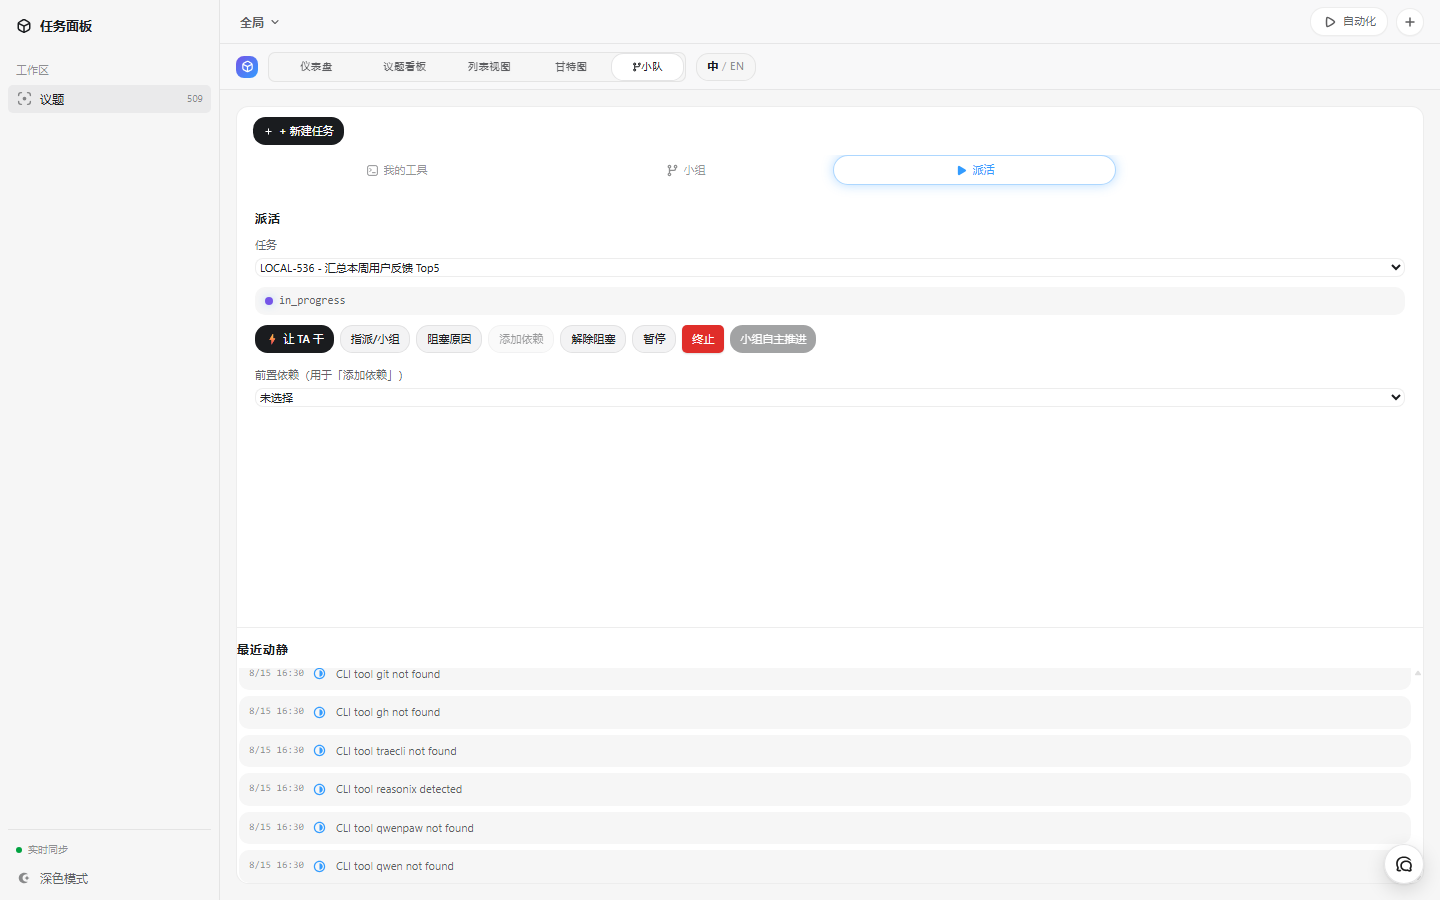
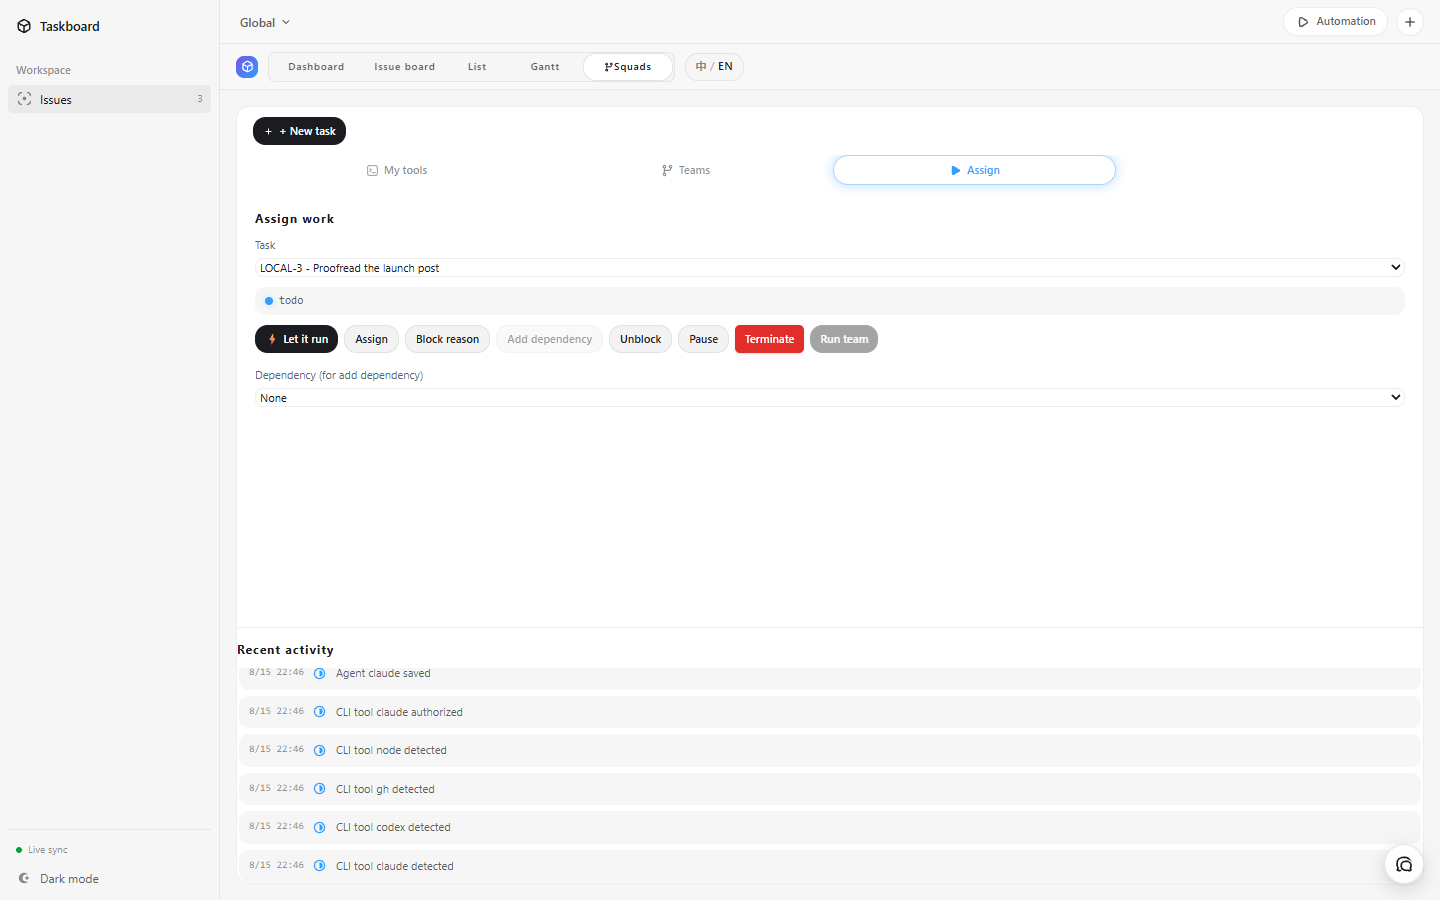
Fix squad E2E defects: activity screenshot, idempotency keys, cli leader test
- Replace the duplicated taskboard-squad-activity.png with a real capture
  of the populated Recent activity feed (was byte-identical to the Assign
  screenshot; MD5 5ee5d026 -> bc0004f9).
- Encode user-provided segments of Idempotency-Key headers (agent/squad/
  skill) so non-ASCII names (e.g. Chinese squad names) do not crash the
  Headers constructor and silently drop the POST. Found while re-running
  the create-team E2E flow for MUTI-16.
- Add a deterministic regression test for createSquad with a cli-<tool>
  leader: authorize a fake installed tool, create with leaderAgentId
  cli-<tool>, expect 201 and members[0].agentId === cli-<tool>.

diff --git a/web/src/api.ts b/web/src/api.ts
@@ -505,7 +505,7 @@ export async function saveAgent(input: {
 }): Promise<AgentProfile> {
   const data = await request<{ agent: AgentProfile }>("/api/agents", {
     method: "POST",
-    headers: { "Idempotency-Key": `agent-${input.id ?? input.name}` },
+    headers: { "Idempotency-Key": `agent-${encodeURIComponent(input.id ?? input.name)}` },
     body: JSON.stringify(input),
   });
   return data.agent;
@@ -524,7 +524,7 @@ export async function createSquad(input: {
 }): Promise<Squad> {
   const data = await request<{ squad: Squad }>("/api/squads", {
     method: "POST",
-    headers: { "Idempotency-Key": `squad-${input.name}-${input.leaderAgentId}` },
+    headers: { "Idempotency-Key": `squad-${encodeURIComponent(input.name)}-${input.leaderAgentId}` },
     body: JSON.stringify(input),
   });
   return data.squad;
@@ -598,7 +598,7 @@ export async function createSkillTemplate(input: {
 }): Promise<SkillTemplate> {
   const data = await request<{ skill: SkillTemplate }>("/api/skills", {
     method: "POST",
-    headers: { "Idempotency-Key": `skill-${input.name}` },
+    headers: { "Idempotency-Key": `skill-${encodeURIComponent(input.name)}` },
     body: JSON.stringify(input),
   });
   return data.skill;
